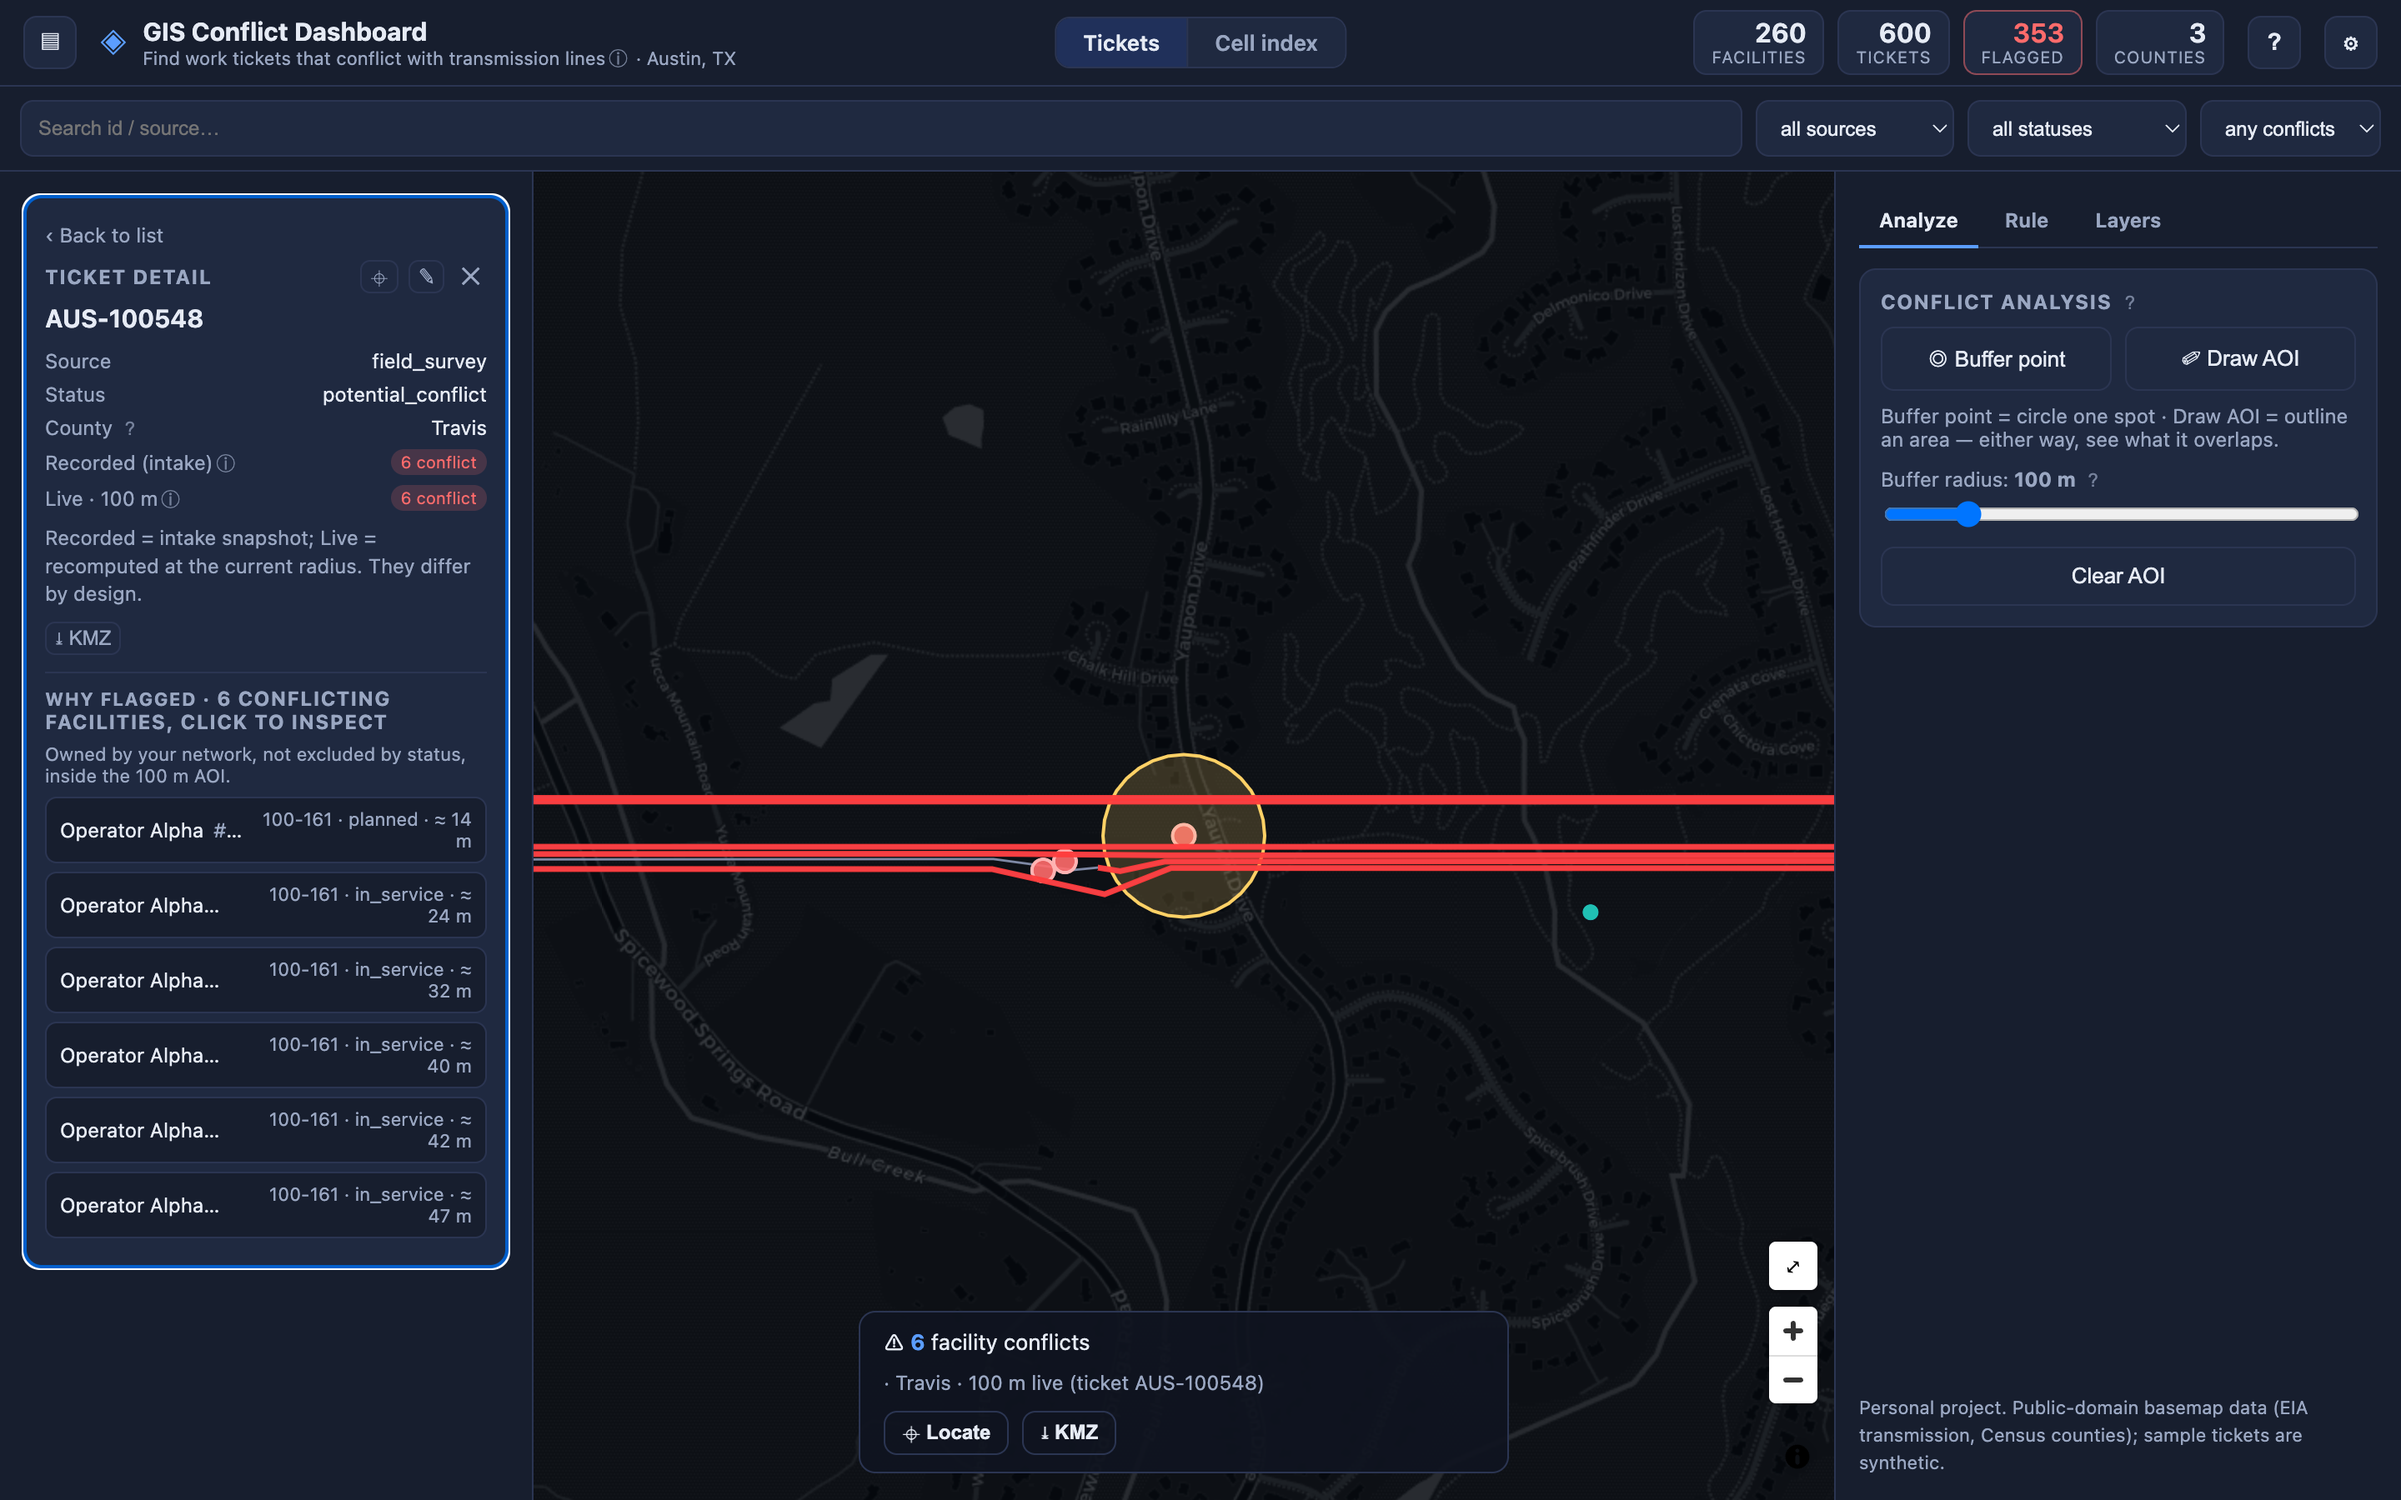
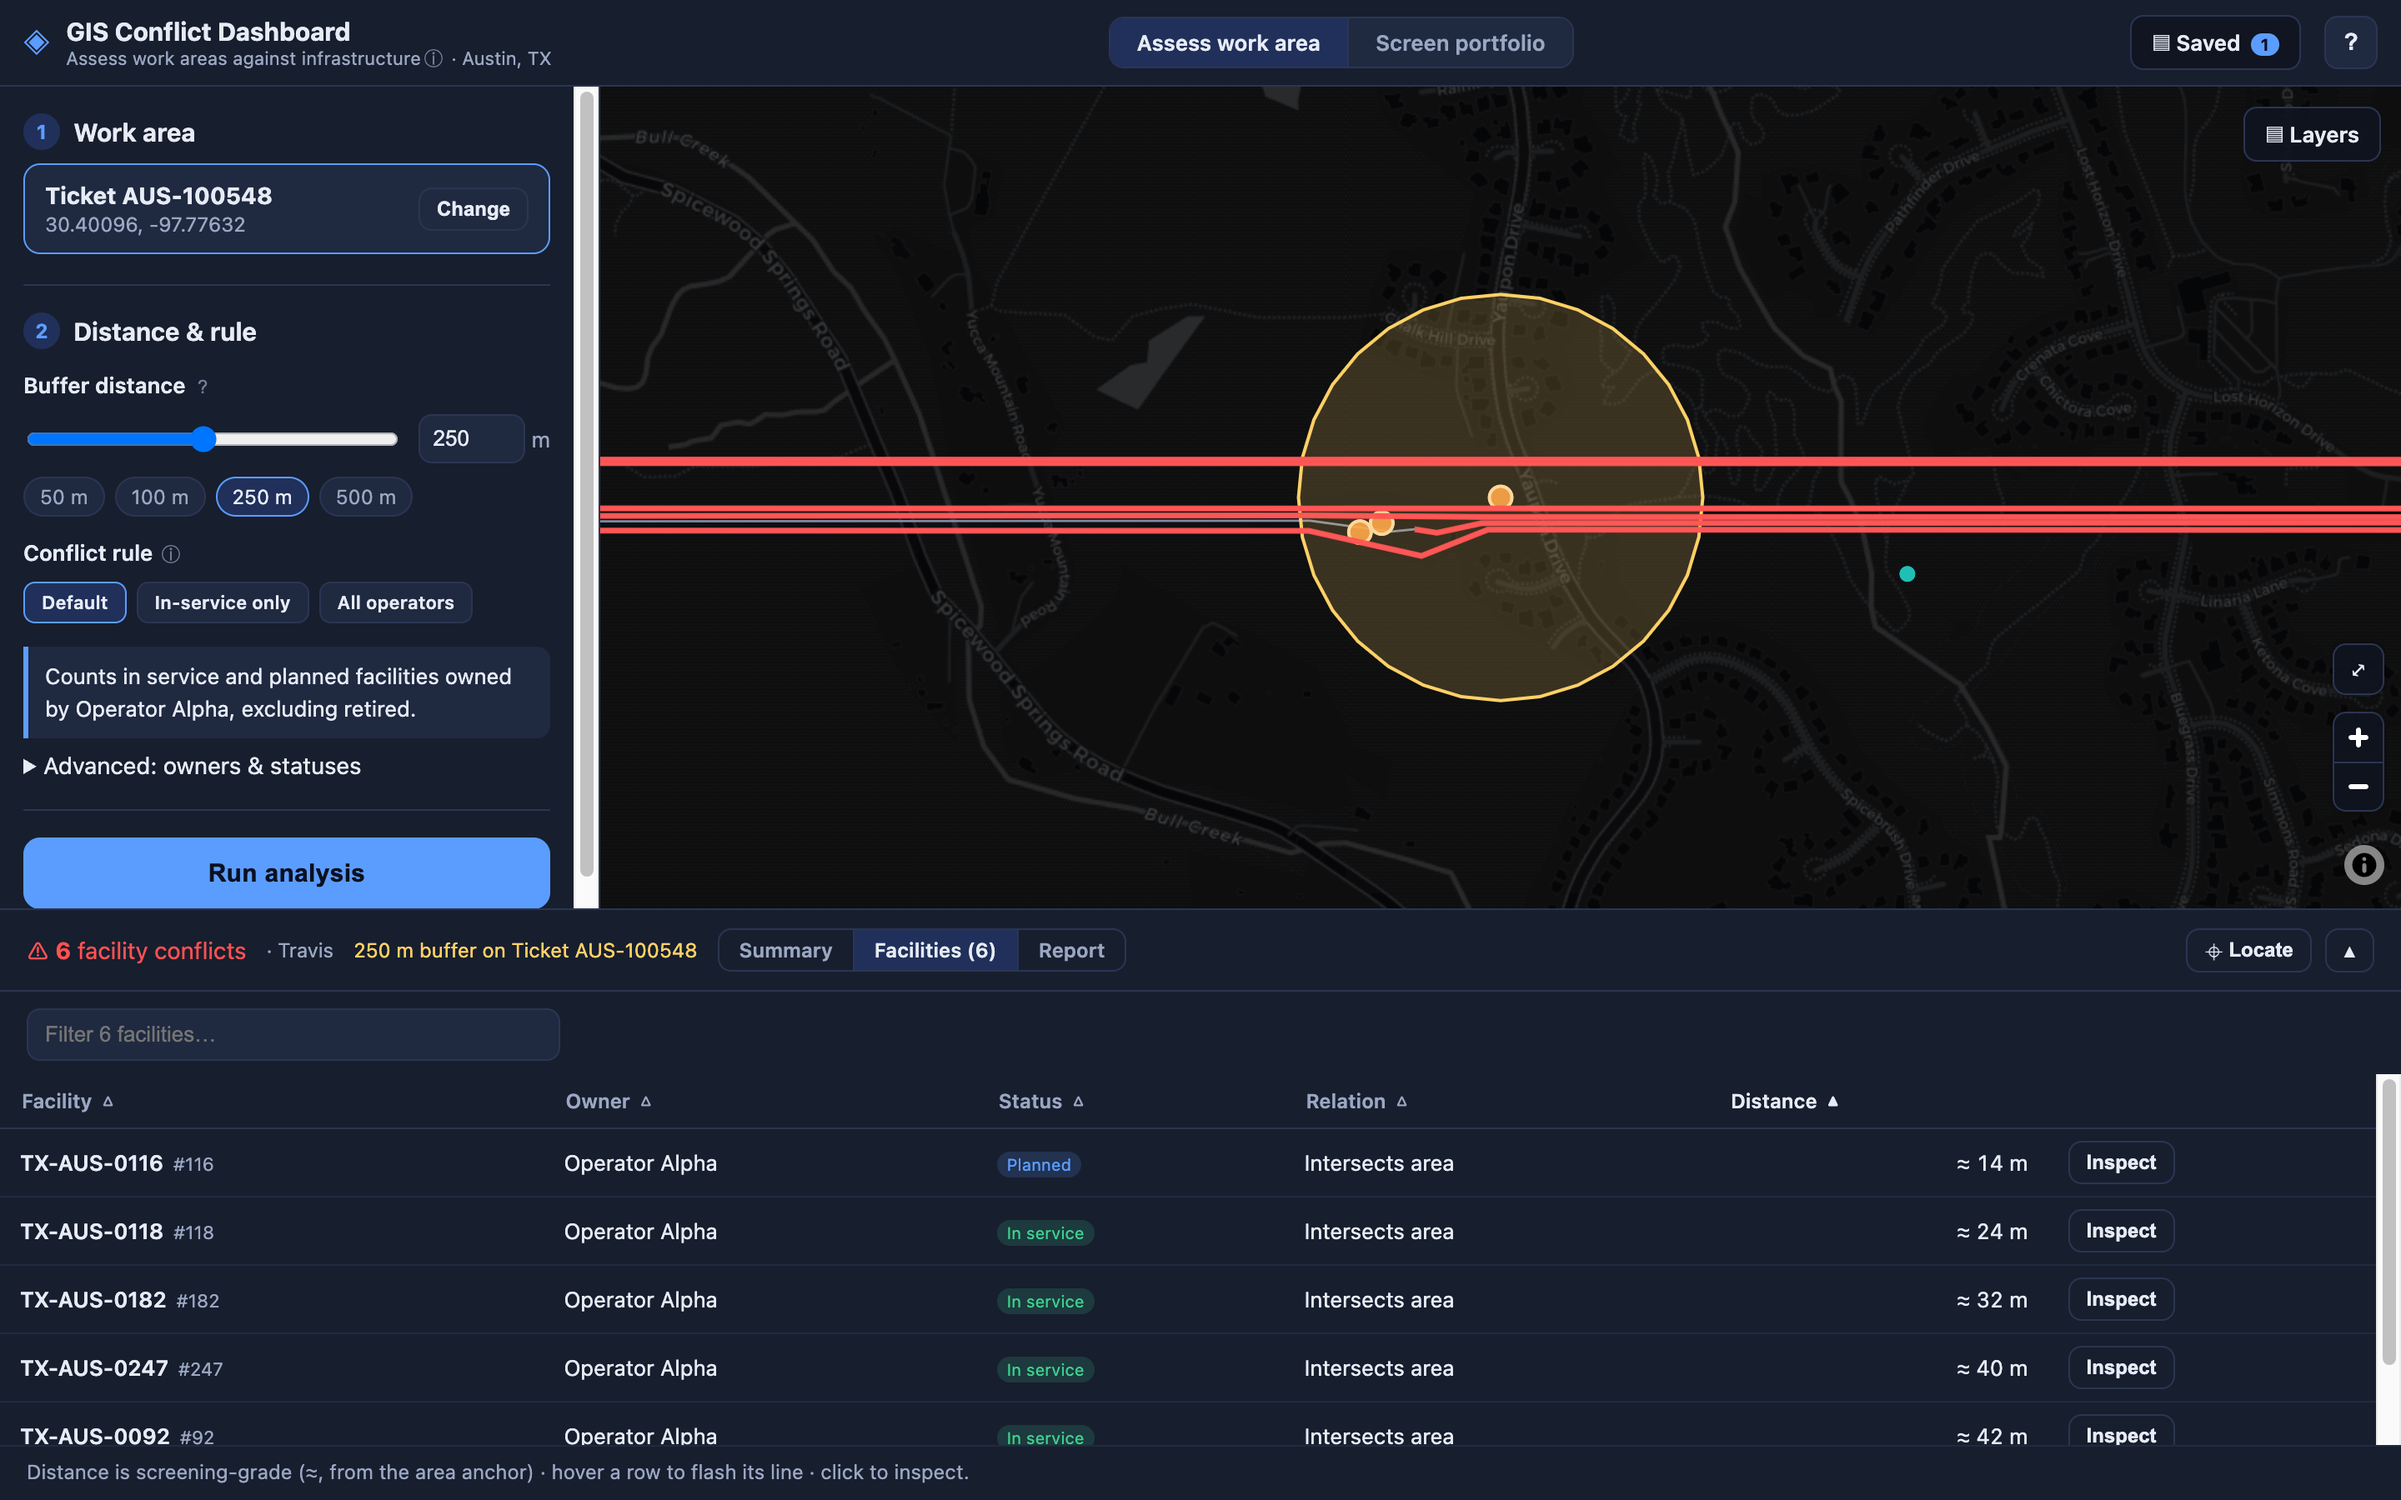
Refresh the demo GIF, screenshots, and docs for the redesigned UI
- Re-script the demo tour around the shipped workflow: pick a ticket,
  set the distance, run the analysis, review the facilities, then
  screen the portfolio and drill a hotspot cell (docs/demo.gif,
  1120px / 10fps / 15s / 5.3MB).
- Re-capture all four screenshots from the current UI: conflict-index
  choropleth with the ranked cell table, ticket-density heatmap, the
  run evidence view, the facility detail drawer, and the mobile
  collapsed-sheet status line over the full-bleed map.
- README: captions and alt text follow the new captures.
- REDESIGN.md: status updated from design-baseline to implemented.

diff --git a/README.md b/README.md
@@ -15,7 +15,7 @@ as a static site on GitHub Pages.
 
 **▶ [Live demo](https://the-snowmen.github.io/GIS-Conflict-Dashboard/)**
 
-[![GIS Conflict Dashboard — a walkthrough: picking a work area, setting the buffer distance and conflict rule, running the analysis, and reviewing the conflicting facilities on the map and in the results tray](docs/demo.gif)](https://the-snowmen.github.io/GIS-Conflict-Dashboard/)
+[![GIS Conflict Dashboard — a walkthrough: picking a work ticket, setting the buffer distance, running the analysis, reviewing the conflicting facilities in the results tray, then screening the portfolio's H3 conflict-index cells and drilling into a hotspot](docs/demo.gif)](https://the-snowmen.github.io/GIS-Conflict-Dashboard/)
 
 > **Note.** A personal project. The basemap layers are public-domain (EIA transmission lines, Census
 > counties); the tickets and areas of interest are **synthetic**, generated by the build script — see
@@ -88,12 +88,13 @@ Two H3 hex layers — a weighted conflict-index screening score and a raw ticket
 | [![Weighted conflict-index choropleth with hotspot cells and drill-down](docs/cell-index.png)](https://the-snowmen.github.io/GIS-Conflict-Dashboard/) | [![Ticket-density heatmap over the Austin metro](docs/density.png)](https://the-snowmen.github.io/GIS-Conflict-Dashboard/) |
 | A tunable weighted score per hex — ticket volume, conflict rate, mean severity, facility density; hotspots outlined, click to drill into a cell's tickets. | Where work clusters, binned into H3 hexes. |
 
-Every run itemizes its evidence — the conflicting facilities ranked nearest-first, each row locating its
-feature on the map; on phones the whole workspace collapses to a draggable bottom sheet:
+Every run itemizes its evidence — the conflicting facilities ranked nearest-first; clicking one (in the
+table or on the map) opens its detail drawer. On phones the workspace collapses to a draggable bottom
+sheet whose collapsed state keeps a one-line verdict over the full-bleed map:
 
-| Conflict evidence | Mobile bottom-sheet |
+| Facility detail drawer | Mobile bottom-sheet |
 |---|---|
-| <img src="docs/why-dossier.png" alt="Conflict evidence: conflicting facilities ranked nearest-first with owner, status, and distance" width="320"> | <img src="docs/mobile.png" alt="The workspace on a phone: full-bleed map with a draggable bottom sheet" width="320"> |
+| <img src="docs/why-dossier.png" alt="The contextual drawer for one conflicting facility: relation to the area, owner, type, status, and approximate distance" width="320"> | <img src="docs/mobile.png" alt="The workspace on a phone: full-bleed map with the analyzed area, red conflicting facilities, and a collapsed bottom sheet reading 6 conflicts, Travis" width="320"> |
 
 ## Quickstart
 

diff --git a/docs/redesign/REDESIGN.md b/docs/redesign/REDESIGN.md
@@ -1,9 +1,8 @@
 # GIS Conflict Dashboard — Redesign Package
 
-**Status:** approved as the design baseline; implementation pending design review.
-This document is the tracked design doc for the redesign (work happens on the `dev-kimi`
-branch). It defines the experience and information architecture; code changes begin with
-Phase A (§10) only after this package is reviewed.
+**Status:** implemented. This document is the tracked design doc the redesign was built
+from; the shipped app follows it (phases A–G of §10 are in place). It is kept as the
+design record — §1's critique describes the *pre-redesign* app, in the past tense now.
 
 The package below follows the brief (`KIMI_REDESIGN_BRIEF.md`) and is grounded in the current
 code: `apps/web/src/{App.tsx,types.ts,styles.css,map.ts}`, `services/{demo,duckdb,geokit,export,overlay}.ts`,
@@ -849,9 +848,8 @@ how users expect "Save" to behave.
 
 ## Status & next steps
 
-- This package is the design baseline for the redesign, developed on the `dev-kimi` branch.
-- Next: design review of the critique (§1), IA (§3), wireframes (§4–5), data/persistence models
-  (§7–8), and phase plan (§10). On sign-off, implementation proceeds phase-by-phase per §10,
-  each phase an independently reviewable diff.
-- Open user-test items to settle before/during early phases are listed in §11 (mode names,
-  Run-button discoverability and staleness, preset naming, tray-vs-rail, save semantics).
+- Implemented: the shipped app follows this package — the assess workflow (W1–W5), the
+  screen-portfolio workflow (W6–W7), the results tray, saved runs + portable projects,
+  report/CSV/GeoJSON/KMZ export, and the mobile Setup/Results sheet.
+- The open user-test items in §11 (mode names, Run-button discoverability and staleness,
+  preset naming, tray-vs-rail, save semantics) remain candidates for real-user validation.
